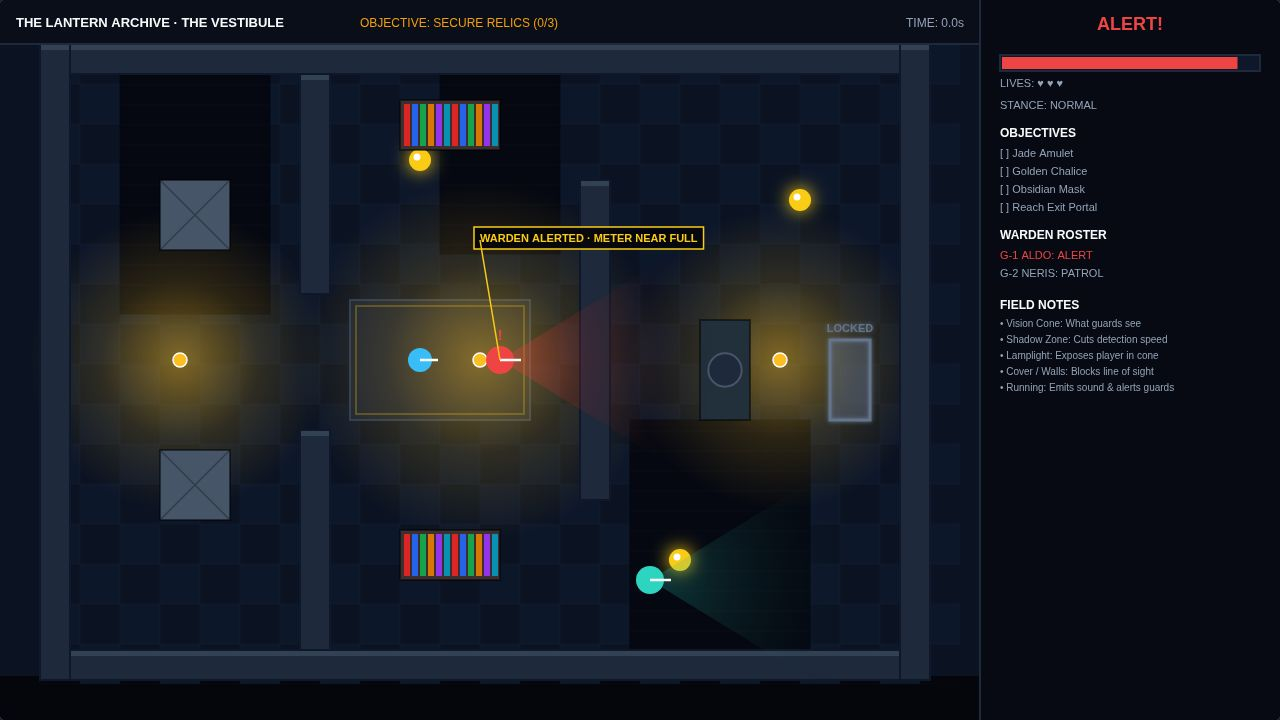
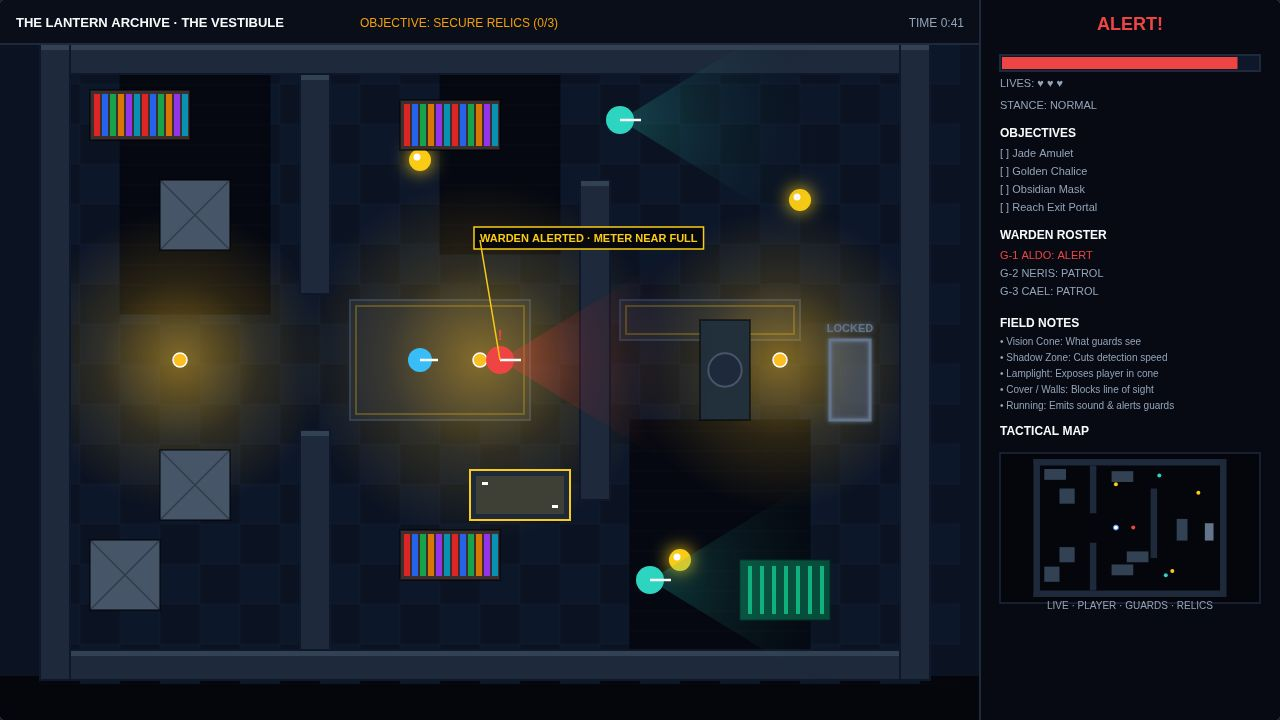
Round 3 final polish: dense mid-floor props, tactical minimap, fixed cover callout, staged timers, G-3 patrol, spawn fixes
- Level 1: display case, crate, bookshelf, red-carpet runner, tall-grass decor
- Side panel: live tactical minimap (walls/cover/relics/exit/guards/player)
- Cover callout replaced with '3 GALLERIES - 9 RELICS - ESCAPE UNSEEN' anchored to START HEIST
- Staged timers: cover 0:00, sneak 1:11, alert 0:41, exit 2:14 (M:SS)
- G-3 CAEL added to level 1 patrol; L1/L2 spawn moved clear of walls; L3 G-3 patrol no longer crosses wall

diff --git a/game/src/render.js b/game/src/render.js
@@ -85,6 +85,24 @@ export class Renderer {
       }
     });
     
+    // Tall grass clumps (decor)
+    if (lvl.decor) {
+      lvl.decor.forEach(d => {
+        this.ctx.save();
+        this.ctx.fillStyle = '#064e3b';
+        this.ctx.fillRect(d.x, d.y, d.w, d.h);
+        this.ctx.strokeStyle = '#022c22';
+        this.ctx.lineWidth = 1;
+        this.ctx.strokeRect(d.x, d.y, d.w, d.h);
+        
+        this.ctx.fillStyle = '#10b981';
+        for (let dx = d.x + 8; dx < d.x + d.w - 6; dx += 12) {
+          this.ctx.fillRect(dx, d.y + 6, 4, d.h - 12);
+        }
+        this.ctx.restore();
+      });
+    }
+    
     // Lamps & Radial Glow
     lvl.lamps.forEach(l => {
       const grad = this.ctx.createRadialGradient(l.x, l.y, 8, l.x, l.y, l.radius);
@@ -125,7 +143,7 @@ export class Renderer {
       }
     });
     
-    // Exit Portal (fully clear of boundary walls, with separate safe label position)
+    // Exit Portal
     const allRelics = lvl.relics.every(r => r.collected);
     const ex = lvl.exit;
     this.ctx.save();
@@ -137,7 +155,6 @@ export class Renderer {
     this.ctx.lineWidth = 3;
     this.ctx.strokeRect(ex.x, ex.y, ex.width, ex.height);
     
-    // Label drawn fully inside open floor (to the left or below portal)
     this.ctx.fillStyle = allRelics ? CONFIG.COLORS.exit : CONFIG.COLORS.exitLocked;
     this.ctx.font = 'bold 11px sans-serif';
     this.ctx.textAlign = 'center';
@@ -159,11 +176,12 @@ export class Renderer {
     lvl.cover.forEach(c => {
       this.ctx.save();
       this.ctx.fillStyle = c.type === 'bookshelf' ? CONFIG.COLORS.bookshelf :
-                           c.type === 'pillar' ? CONFIG.COLORS.pillar : CONFIG.COLORS.crate;
+                           c.type === 'pillar' ? CONFIG.COLORS.pillar :
+                           c.type === 'display' ? '#1e293b' : CONFIG.COLORS.crate;
       this.ctx.fillRect(c.x, c.y, c.w, c.h);
       
-      this.ctx.strokeStyle = 'rgba(0,0,0,0.5)';
-      this.ctx.lineWidth = 2;
+      this.ctx.strokeStyle = c.type === 'display' ? '#facc15' : 'rgba(0,0,0,0.5)';
+      this.ctx.lineWidth = c.type === 'display' ? 2 : 2;
       this.ctx.strokeRect(c.x, c.y, c.w, c.h);
       
       if (c.type === 'crate') {
@@ -194,6 +212,12 @@ export class Renderer {
         this.ctx.fill();
         this.ctx.strokeStyle = '#475569';
         this.ctx.stroke();
+      } else if (c.type === 'display') {
+        this.ctx.fillStyle = 'rgba(250, 204, 21, 0.15)';
+        this.ctx.fillRect(c.x + 6, c.y + 6, c.w - 12, c.h - 12);
+        this.ctx.fillStyle = '#ffffff';
+        this.ctx.fillRect(c.x + 12, c.y + 12, 6, 3);
+        this.ctx.fillRect(c.x + c.w - 18, c.y + c.h - 15, 6, 3);
       }
       this.ctx.restore();
     });
@@ -295,10 +319,16 @@ export class Renderer {
     this.ctx.font = '12px sans-serif';
     this.ctx.fillText(allRelics ? 'OBJECTIVE: ESCAPE THROUGH EXIT' : `OBJECTIVE: SECURE RELICS (${relicsGot}/3)`, 360, 27);
     
+    const formatTime = (secs) => {
+      const m = Math.floor(secs / 60);
+      const s = Math.floor(secs % 60);
+      return `${m}:${s < 10 ? '0' : ''}${s}`;
+    };
+    
     this.ctx.fillStyle = CONFIG.COLORS.textMuted;
     this.ctx.font = '12px sans-serif';
     this.ctx.textAlign = 'right';
-    this.ctx.fillText(`TIME: ${world.gameTimer.toFixed(1)}s`, CONFIG.PLAYFIELD_WIDTH - 16, 27);
+    this.ctx.fillText(`TIME ${formatTime(world.gameTimer)}`, CONFIG.PLAYFIELD_WIDTH - 16, 27);
     this.ctx.restore();
   }
   
@@ -411,6 +441,95 @@ export class Renderer {
       this.ctx.fillText(n, x + 20, curY);
       curY += 16;
     });
+    curY += 10;
+    
+    // 6. Tactical Map (Job 2)
+    this.ctx.fillStyle = CONFIG.COLORS.text;
+    this.ctx.font = 'bold 12px sans-serif';
+    this.ctx.fillText('TACTICAL MAP', x + 20, curY);
+    curY += 18;
+    
+    const mapBoxX = x + 20;
+    const mapBoxY = curY;
+    const mapBoxW = w - 40;
+    const mapBoxH = 150;
+    
+    this.ctx.fillStyle = '#04060b';
+    this.ctx.fillRect(mapBoxX, mapBoxY, mapBoxW, mapBoxH);
+    this.ctx.strokeStyle = CONFIG.COLORS.uiBorder;
+    this.ctx.lineWidth = 1.5;
+    this.ctx.strokeRect(mapBoxX, mapBoxY, mapBoxW, mapBoxH);
+    
+    const playXMin = 40, playXMax = 930;
+    const playYMin = 44, playYMax = 680;
+    const playW = playXMax - playXMin;
+    const playH = playYMax - playYMin;
+    
+    const scaleX = (mapBoxW - 12) / playW;
+    const scaleY = (mapBoxH - 12) / playH;
+    const scale = Math.min(scaleX, scaleY);
+    
+    const drawW = playW * scale;
+    const drawH = playH * scale;
+    const originX = mapBoxX + (mapBoxW - drawW) / 2;
+    const originY = mapBoxY + (mapBoxH - drawH) / 2;
+    
+    const toMapX = (wx) => originX + (wx - playXMin) * scale;
+    const toMapY = (wy) => originY + (wy - playYMin) * scale;
+    
+    this.ctx.save();
+    this.ctx.beginPath();
+    this.ctx.rect(mapBoxX, mapBoxY, mapBoxW, mapBoxH);
+    this.ctx.clip();
+    
+    world.level.walls.forEach(mw => {
+      this.ctx.fillStyle = CONFIG.COLORS.wall;
+      this.ctx.fillRect(toMapX(mw.x), toMapY(mw.y), mw.w * scale, mw.h * scale);
+    });
+    
+    world.level.cover.forEach(mc => {
+      this.ctx.fillStyle = '#334155';
+      this.ctx.fillRect(toMapX(mc.x), toMapY(mc.y), mc.w * scale, mc.h * scale);
+    });
+    
+    world.level.relics.forEach(mr => {
+      this.ctx.fillStyle = mr.collected ? '#64748b' : CONFIG.COLORS.relic;
+      this.ctx.beginPath();
+      this.ctx.arc(toMapX(mr.x), toMapY(mr.y), Math.max(2, 3.5 * scale), 0, Math.PI * 2);
+      this.ctx.fill();
+    });
+    
+    const mex = world.level.exit;
+    const allRelicsGot = world.level.relics.every(r => r.collected);
+    this.ctx.fillStyle = allRelicsGot ? CONFIG.COLORS.exit : '#64748b';
+    this.ctx.fillRect(toMapX(mex.x), toMapY(mex.y), mex.width * scale, mex.height * scale);
+    
+    world.guards.forEach(mg => {
+      let gCol = CONFIG.COLORS.guardTeal;
+      if (mg.state === 'suspicious') gCol = CONFIG.COLORS.guardAmber;
+      if (mg.state === 'alert') gCol = CONFIG.COLORS.guardAlert;
+      this.ctx.fillStyle = gCol;
+      this.ctx.beginPath();
+      this.ctx.arc(toMapX(mg.x), toMapY(mg.y), Math.max(2, 3 * scale), 0, Math.PI * 2);
+      this.ctx.fill();
+    });
+    
+    const mp = world.player;
+    this.ctx.fillStyle = '#ffffff';
+    this.ctx.beginPath();
+    this.ctx.arc(toMapX(mp.x), toMapY(mp.y), Math.max(2.5, 3.5 * scale), 0, Math.PI * 2);
+    this.ctx.fill();
+    this.ctx.strokeStyle = '#3b82f6';
+    this.ctx.lineWidth = 1;
+    this.ctx.stroke();
+    
+    this.ctx.restore();
+    
+    curY += mapBoxH + 6;
+    this.ctx.fillStyle = CONFIG.COLORS.textMuted;
+    this.ctx.font = '10px sans-serif';
+    this.ctx.textAlign = 'center';
+    this.ctx.fillText('LIVE · PLAYER · GUARDS · RELICS', mapBoxX + mapBoxW / 2, curY);
     
     this.ctx.restore();
   }
@@ -440,7 +559,7 @@ export class Renderer {
     };
     
     if (shotName === 'cover') {
-      drawCallout('TITLE: MOONLIT HEIST', 280, 240, 200, 150);
+      drawCallout('3 GALLERIES · 9 RELICS · ESCAPE UNSEEN', 640, 578, 640, 640);
     } else if (shotName === 'sneak') {
       drawCallout('HIDDEN BEHIND CRATE (CONE STOPS)', 200, 220, 110, 130);
     } else if (shotName === 'alert') {

diff --git a/game/src/levels.js b/game/src/levels.js
@@ -2,7 +2,7 @@ export const LEVELS = [
   {
     id: 1,
     name: "The Vestibule",
-    playerStart: { x: 80, y: 360 },
+    playerStart: { x: 100, y: 360 },
     exit: { x: 830, y: 340, width: 40, height: 80 }, // clear of right wall (starts at 900) by 70px
     relics: [
       { x: 420, y: 160, collected: false, name: "Jade Amulet" },
@@ -23,7 +23,10 @@ export const LEVELS = [
       { x: 160, y: 450, w: 70, h: 70, type: 'crate' },
       { x: 400, y: 100, w: 100, h: 50, type: 'bookshelf' },
       { x: 400, y: 530, w: 100, h: 50, type: 'bookshelf' },
-      { x: 700, y: 320, w: 50, h: 100, type: 'pillar' }
+      { x: 700, y: 320, w: 50, h: 100, type: 'pillar' },
+      { x: 470, y: 470, w: 100, h: 50, type: 'display' },
+      { x: 90, y: 540, w: 70, h: 70, type: 'crate' },
+      { x: 90, y: 90, w: 100, h: 50, type: 'bookshelf' }
     ],
     shadows: [
       { x: 120, y: 74, w: 150, h: 240 },
@@ -36,7 +39,11 @@ export const LEVELS = [
       { x: 780, y: 360, radius: 150, intensity: 0.8 }
     ],
     rugs: [
-      { x: 350, y: 300, w: 180, h: 120 }
+      { x: 350, y: 300, w: 180, h: 120 },
+      { x: 620, y: 300, w: 180, h: 40 }
+    ],
+    decor: [
+      { x: 740, y: 560, w: 90, h: 60 }
     ],
     guards: [
       {
@@ -52,13 +59,20 @@ export const LEVELS = [
         waypoints: [{x: 650, y: 580}, {x: 650, y: 140}],
         currentWaypoint: 0,
         speed: 65
+      },
+      {
+        name: "G-3 CAEL",
+        x: 620, y: 120,
+        waypoints: [{x: 620, y: 120}, {x: 860, y: 120}],
+        currentWaypoint: 0,
+        speed: 65
       }
     ]
   },
   {
     id: 2,
     name: "The Gilt Gallery",
-    playerStart: { x: 70, y: 610 },
+    playerStart: { x: 100, y: 610 },
     exit: { x: 830, y: 80, width: 40, height: 80 }, // clear of right wall (starts at 900) by 70px
     relics: [
       { x: 260, y: 110, collected: false, name: "Sun Medallion" },
@@ -183,7 +197,7 @@ export const LEVELS = [
       {
         name: "G-3 CAEL",
         x: 470, y: 180,
-        waypoints: [{x: 470, y: 180}, {x: 470, y: 580}],
+        waypoints: [{x: 470, y: 180}, {x: 470, y: 440}],
         currentWaypoint: 0,
         speed: 85
       },

diff --git a/game/src/shots.js b/game/src/shots.js
@@ -1,8 +1,10 @@
 export function stageShot(name, world) {
   if (name === 'cover') {
     world.state = 'title';
+    world.gameTimer = 0;
   } else if (name === 'sneak') {
     world.state = 'play';
+    world.gameTimer = 71;
     world.player.x = 200;
     world.player.y = 220;
     world.player.sneaking = true;
@@ -13,6 +15,7 @@ export function stageShot(name, world) {
     }
   } else if (name === 'alert') {
     world.state = 'play';
+    world.gameTimer = 41;
     world.detectionMeter = 0.92;
     world.player.x = 420;
     world.player.y = 360;
@@ -24,6 +27,7 @@ export function stageShot(name, world) {
     }
   } else if (name === 'exit') {
     world.state = 'play';
+    world.gameTimer = 134;
     world.level.relics.forEach(r => r.collected = true);
     world.player.x = world.level.exit.x + 15;
     world.player.y = world.level.exit.y + 40;
